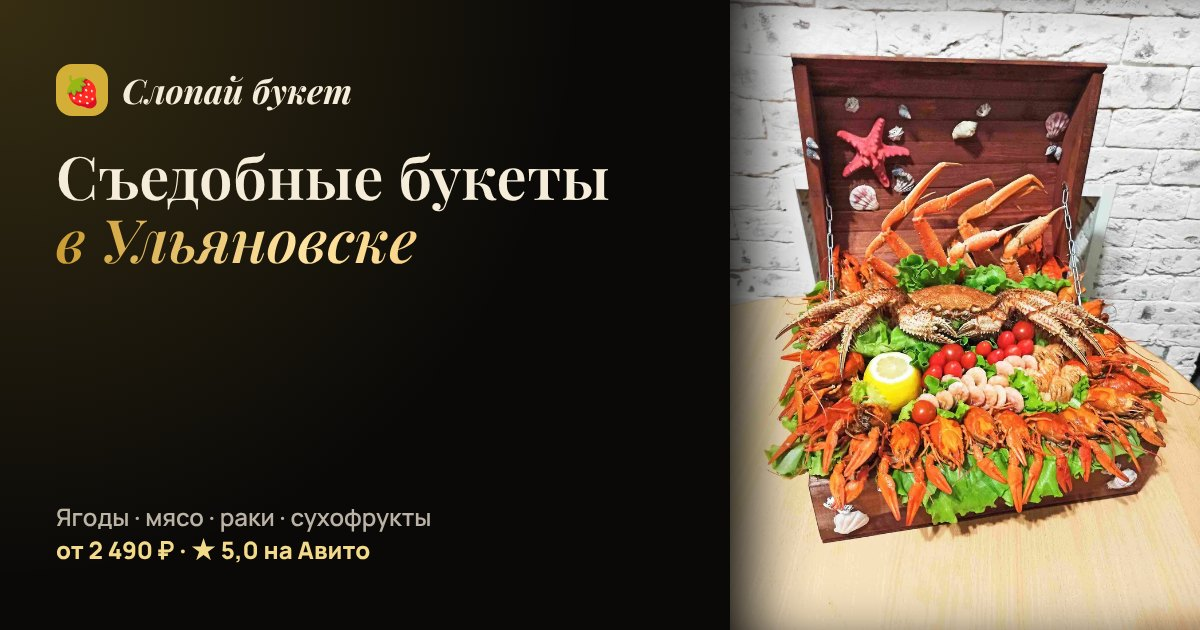
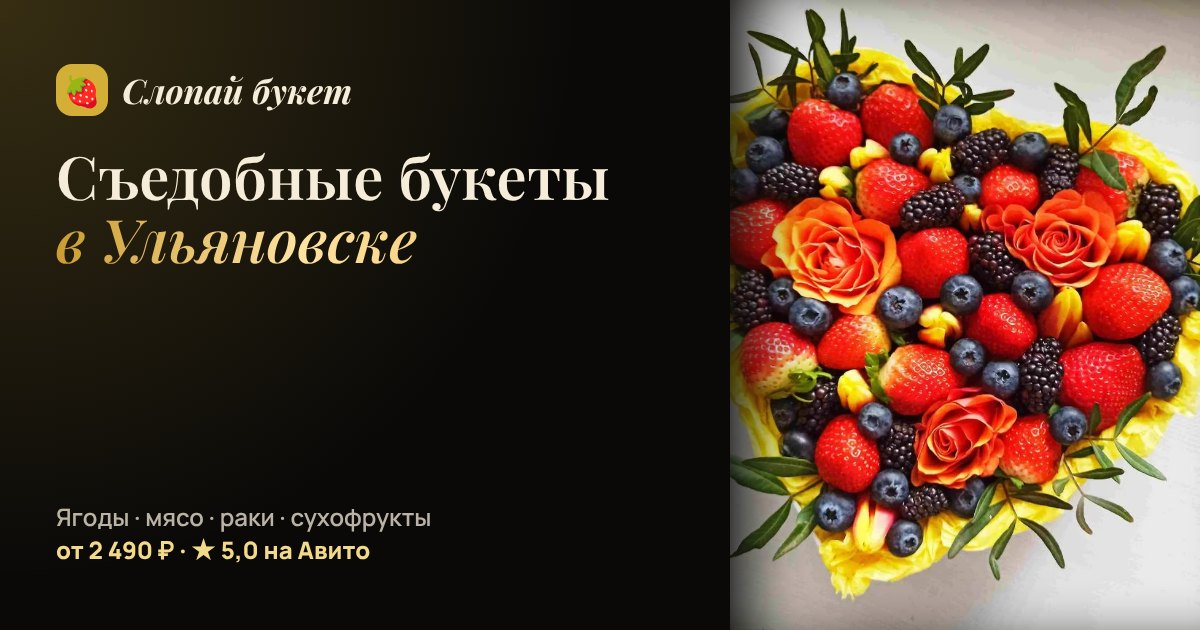
Первый экран: ягодное сердце «Ежевичный вальс»
Claude-Session: https://claude.ai/code/session_0154R5cCQGaG4krPVaV8ccB2

diff --git a/src/components/sections/hero.tsx b/src/components/sections/hero.tsx
@@ -120,15 +120,15 @@ export function Hero() {
             onPointerMove={onMove}
             onPointerLeave={onLeave}
             style={{ rotateX: rx, rotateY: ry }}
-            className="relative mx-auto aspect-[4/5] h-[44svh] max-h-[640px] min-h-[300px] overflow-hidden rounded-[32px] shadow-lift ring-1 ring-honey/30 md:h-auto md:max-h-none md:w-full lg:max-w-[520px]"
+            className="relative mx-auto aspect-square h-[44svh] max-w-full max-h-[640px] min-h-[300px] overflow-hidden rounded-[32px] shadow-lift ring-1 ring-honey/30 md:h-auto md:max-h-none md:w-full lg:max-w-[520px]"
           >
             <img
-              src="/img/real/sea/m-5.webp"
-              alt="«Сокровища моря»: сундук с раками, крабовыми фалангами, креветками и лимоном — работа мастерской"
+              src="/img/real/berry/hero-heart.webp"
+              alt="«Ежевичный вальс»: сердце из клубники, ежевики, голубики и роз — работа мастерской"
               className="h-full w-full scale-105 object-cover animate-[kenburns_18s_ease-in-out_infinite_alternate]"
               fetchPriority="high"
-              width={826}
-              height={1100}
+              width={1100}
+              height={1026}
             />
             <div aria-hidden className="absolute inset-0 bg-gradient-to-t from-black/35 via-transparent to-transparent" />
             <div className="absolute bottom-4 left-4 right-4 flex items-end justify-between gap-3">
@@ -139,7 +139,7 @@ export function Hero() {
                 </p>
               </div>
               <div className="hidden rounded-2xl bg-scrim/85 px-3.5 py-2.5 text-[12px] font-semibold text-ink backdrop-blur sm:block">
-                «Сокровища моря» · от 10 990 ₽
+                «Ежевичный вальс» · от 4 990 ₽
               </div>
             </div>
           </motion.div>

diff --git a/index.html b/index.html
@@ -27,7 +27,7 @@
     <meta name="twitter:card" content="summary_large_image" />
     <link rel="canonical" href="%SITE_URL%/" />
     <link rel="icon" href="/favicon.svg" type="image/svg+xml" />
-    <link rel="preload" as="image" href="/img/real/sea/m-5.webp" fetchpriority="high" />
+    <link rel="preload" as="image" href="/img/real/berry/hero-heart.webp" fetchpriority="high" />
     <script type="application/ld+json">
       {"@context":"https://schema.org","@type":"Florist","name":"Слопай букет","description":"Съедобные букеты с доставкой в Ульяновске","telephone":"+7-963-128-25-56","priceRange":"2490–12990 ₽","address":{"@type":"PostalAddress","streetAddress":"ул. Карбышева, 37","addressLocality":"Ульяновск","addressCountry":"RU"},"openingHours":"Mo-Su 08:00-21:00","aggregateRating":{"@type":"AggregateRating","ratingValue":"5.0","ratingCount":"55"}}
     </script>
